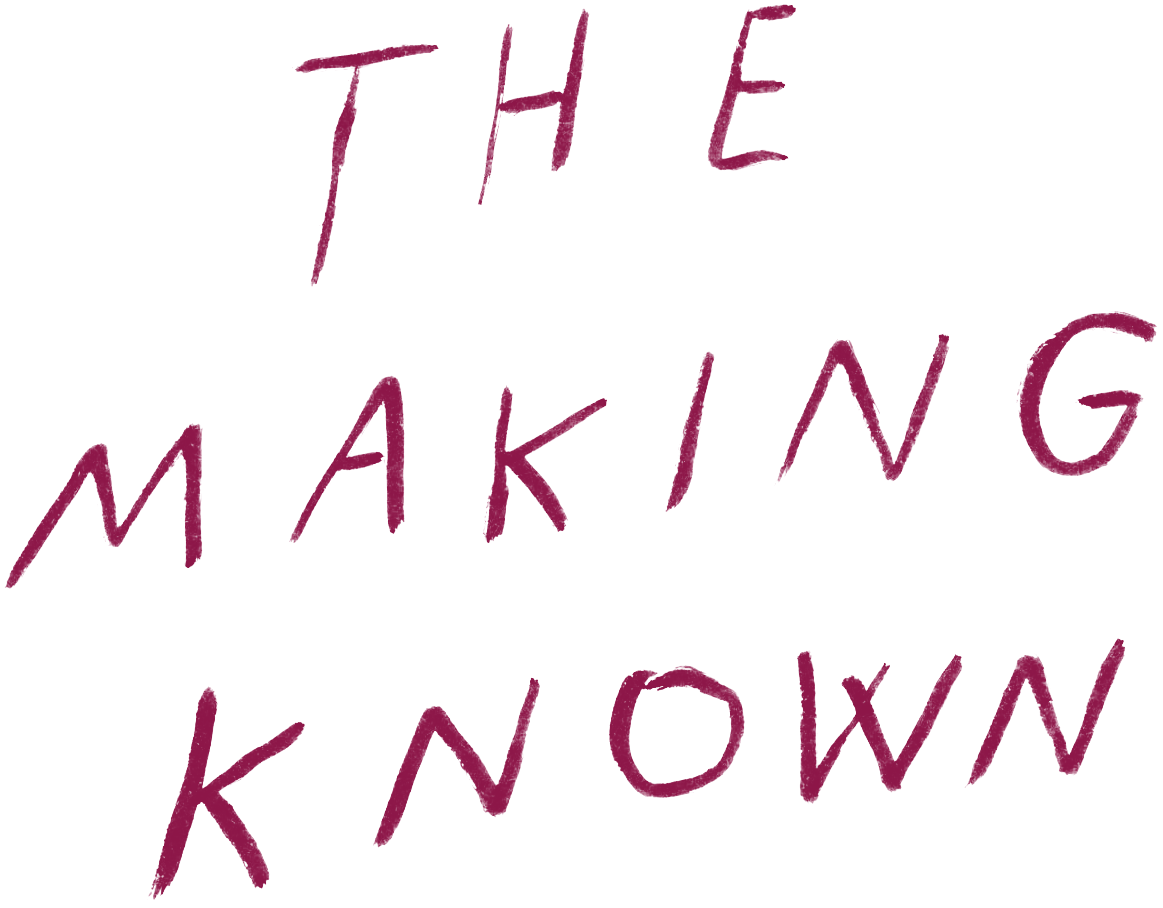
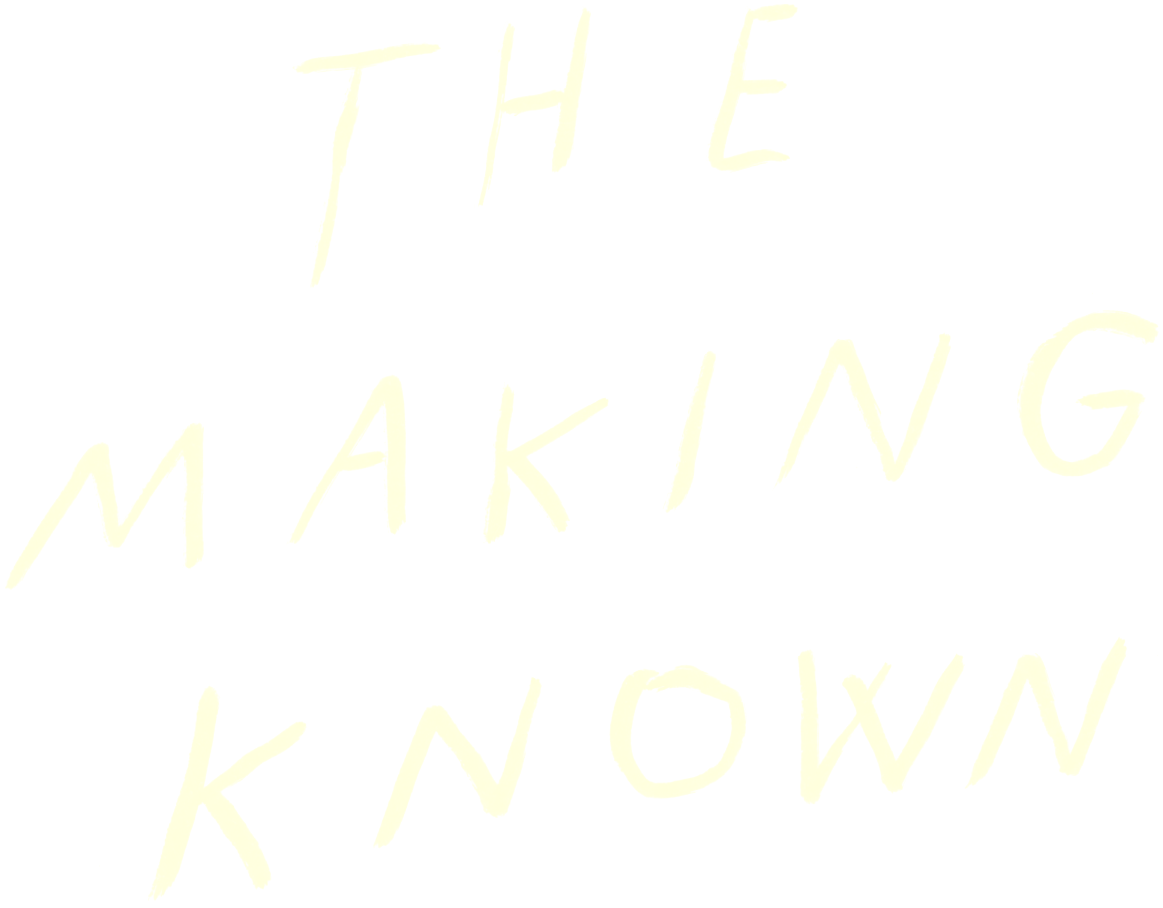
Add piece titles, replace play-pause button

diff --git a/src/Player.svelte b/src/Player.svelte
@@ -78,12 +78,14 @@ function assignRetrievedTime (): void {
 
 <audio src="audio/{piece}.mp3" bind:currentTime bind:paused bind:duration></audio>
 
-<h1>{titleFor(piece)}</h1>
+<img src="img/{piece}.png" alt={titleFor(piece)} class="title">
+
 <div class="controls">
   <button class="rew" on:click={rew}></button>
   <button class="play-pause" class:playing on:click={togglePlay}></button>
   <button class="ffw" on:click={ffw}></button>
 </div>
+
 <Timeline {progress} {playing} />
 
 <style>
@@ -92,6 +94,11 @@ function assignRetrievedTime (): void {
   flex-direction: row;
   align-items: center;
   justify-content: center;
+}
+
+.title {
+  height: 7em;
+  margin-bottom: 1em;
 }
 
 button {
@@ -115,7 +122,7 @@ button:active {
 }
 
 button.play-pause {
-  width: 5em;
+  width: 8em;
   height: 2.5em;
   background-image: url(img/play-pause.png);
   background-size: 100% auto;
